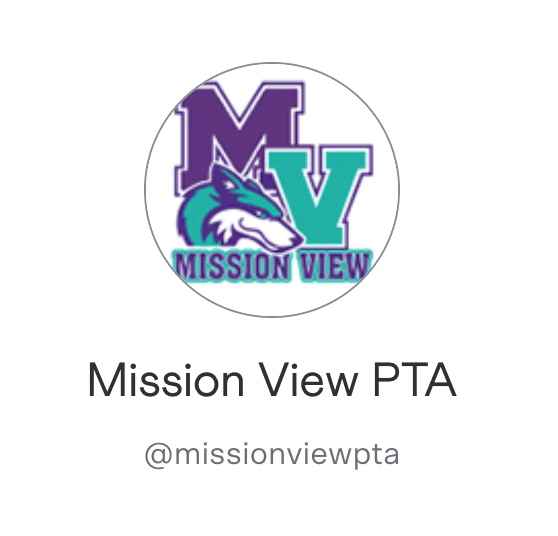
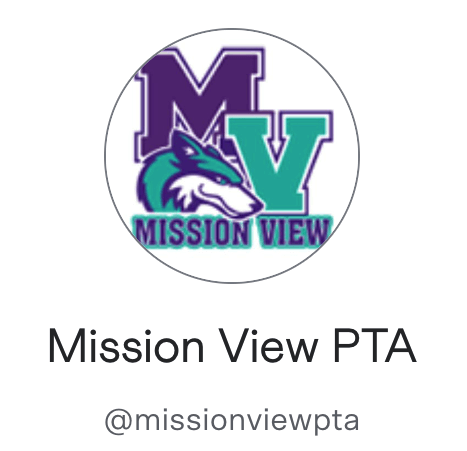
Updated picture in donation page, cropped space surrounding image.

diff --git a/donation.html b/donation.html
@@ -38,15 +38,19 @@
 
     <!-- body begins-->
 
-    <div class="container-donation">
-        <div class="row row-cols-4">
+    <div class="container-fluid">
+        <div class="container">
             <div class="col">
-                <img src="assets/images/missionviewptavenmo.png" class="logopic" alt="Mission View PTA Venmo Profile" width="300" height="300">
+            <div class="container">
+                <img src="assets/images/missionviewptavenmo.png" class="logopic" alt="Mission View PTA Venmo Profile" width="250" height="250">
+            </div>
 
                 <p>
                     You can send your donation for our celebration using our PTA's Venmo account. 
                     If you would like to use your phone, scan the QR code. If you are making a donation please include 
                     <strong>"Mission View 100"</strong> in the memo line. If you have any questions,please call the office 520-225-2300.
+                </p>
+                <p><strong>~</strong>
                 </p>
                 <p>
                     <i>Para donar usando la web, por favor mande su pago usando la cuenta de Venmo de la PTA de Mission View. Si tiene la app de Venmo use el código de QR para inciar su pago.

diff --git a/style.css b/style.css
@@ -172,5 +172,5 @@ li a:hover {
 }
 
 .logopic {
-  opacity: 85%;
+  opacity: 65%;
 }
